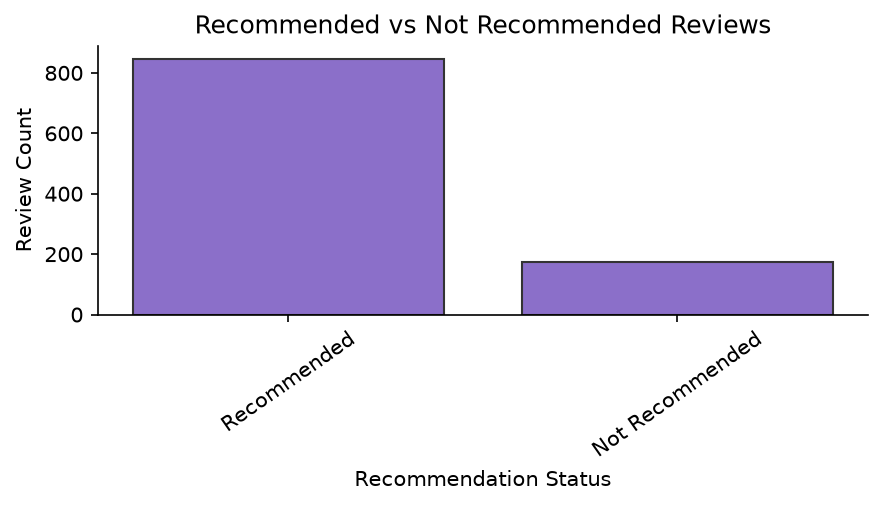
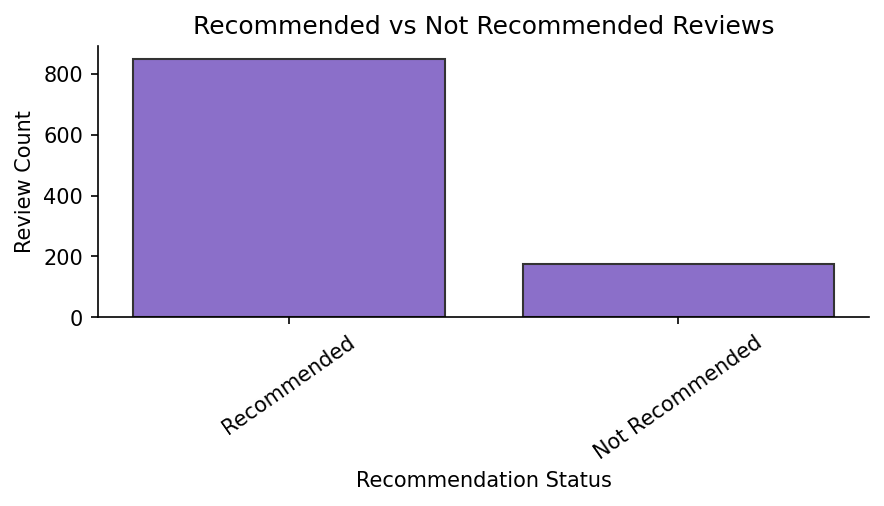
update

diff --git a/glowbase/templates/admin_products.html b/glowbase/templates/admin_products.html
@@ -162,11 +162,12 @@
                             Edit
                         </a>
 
-                        <a href="/admin/products/delete/{{ product.product_id }}"
-                           class="delete-link"
-                           onclick="return confirm('Are you sure you want to delete {{ product.product_name }}?');">
-                            Delete
-                        </a>
+                        <form method="POST"
+                              action="/admin/products/delete/{{ product.product_id }}"
+                              class="delete-form"
+                              onsubmit="return confirm('Are you sure you want to delete {{ product.product_name }}?');">
+                            <button type="submit" class="delete-link">Delete</button>
+                        </form>
                     </td>
                 </tr>
                 {% else %}

diff --git a/glowbase/templates/admin_reviews.html b/glowbase/templates/admin_reviews.html
@@ -144,11 +144,12 @@
                             Edit
                         </a>
 
-                        <a href="/admin/reviews/delete/{{ review._id }}"
-                           class="delete-link"
-                           onclick="return confirm('Are you sure you want to delete this review?');">
-                            Delete
-                        </a>
+                        <form method="POST"
+                              action="/admin/reviews/delete/{{ review._id }}"
+                              class="delete-form"
+                              onsubmit="return confirm('Are you sure you want to delete this review?');">
+                            <button type="submit" class="delete-link">Delete</button>
+                        </form>
                     </td>
                 </tr>
             {% else %}

diff --git a/glowbase/static/css/admin.css b/glowbase/static/css/admin.css
@@ -284,6 +284,10 @@
     flex-wrap: wrap;
 }
 
+.delete-form {
+    margin: 0;
+}
+
 .admin-result-pill {
     background: #ffffff;
     border: 1px solid #ece5e1;
@@ -312,6 +316,8 @@
     background: #fff1f1;
     border: 1px solid #f2c8ce;
     color: #9a1222;
+    cursor: pointer;
+    font: inherit;
     padding: 8px 12px;
     border-radius: 8px;
     text-decoration: none;

diff --git a/glowbase/routes/admin_product_routes.py b/glowbase/routes/admin_product_routes.py
@@ -303,7 +303,7 @@ def admin_edit_product(product_id):
         return f"Error loading product: {str(e)}", 500
 
 
-@admin_product_bp.route("/admin/products/delete/<product_id>")
+@admin_product_bp.route("/admin/products/delete/<product_id>", methods=["POST"])
 def admin_delete_product(product_id):
     if not is_admin_logged_in():
         return redirect("/admin/login")

diff --git a/glowbase/routes/admin_review_routes.py b/glowbase/routes/admin_review_routes.py
@@ -133,7 +133,7 @@ def admin_edit_review(review_id):
     )
 
 
-@admin_review_bp.route("/admin/reviews/delete/<review_id>")
+@admin_review_bp.route("/admin/reviews/delete/<review_id>", methods=["POST"])
 def admin_delete_review(review_id):
     if not is_admin_logged_in():
         return redirect("/admin/login")